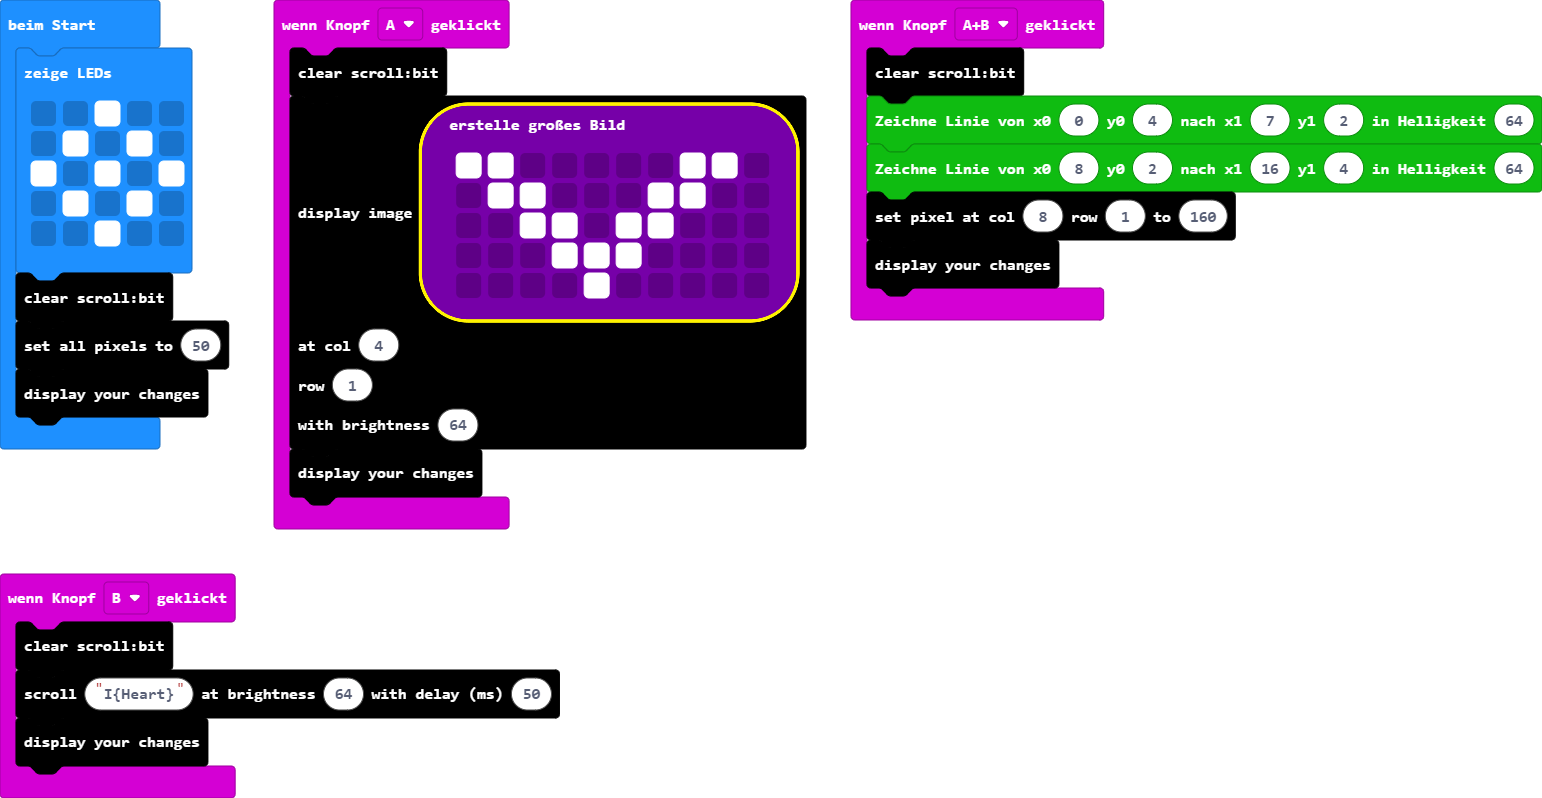
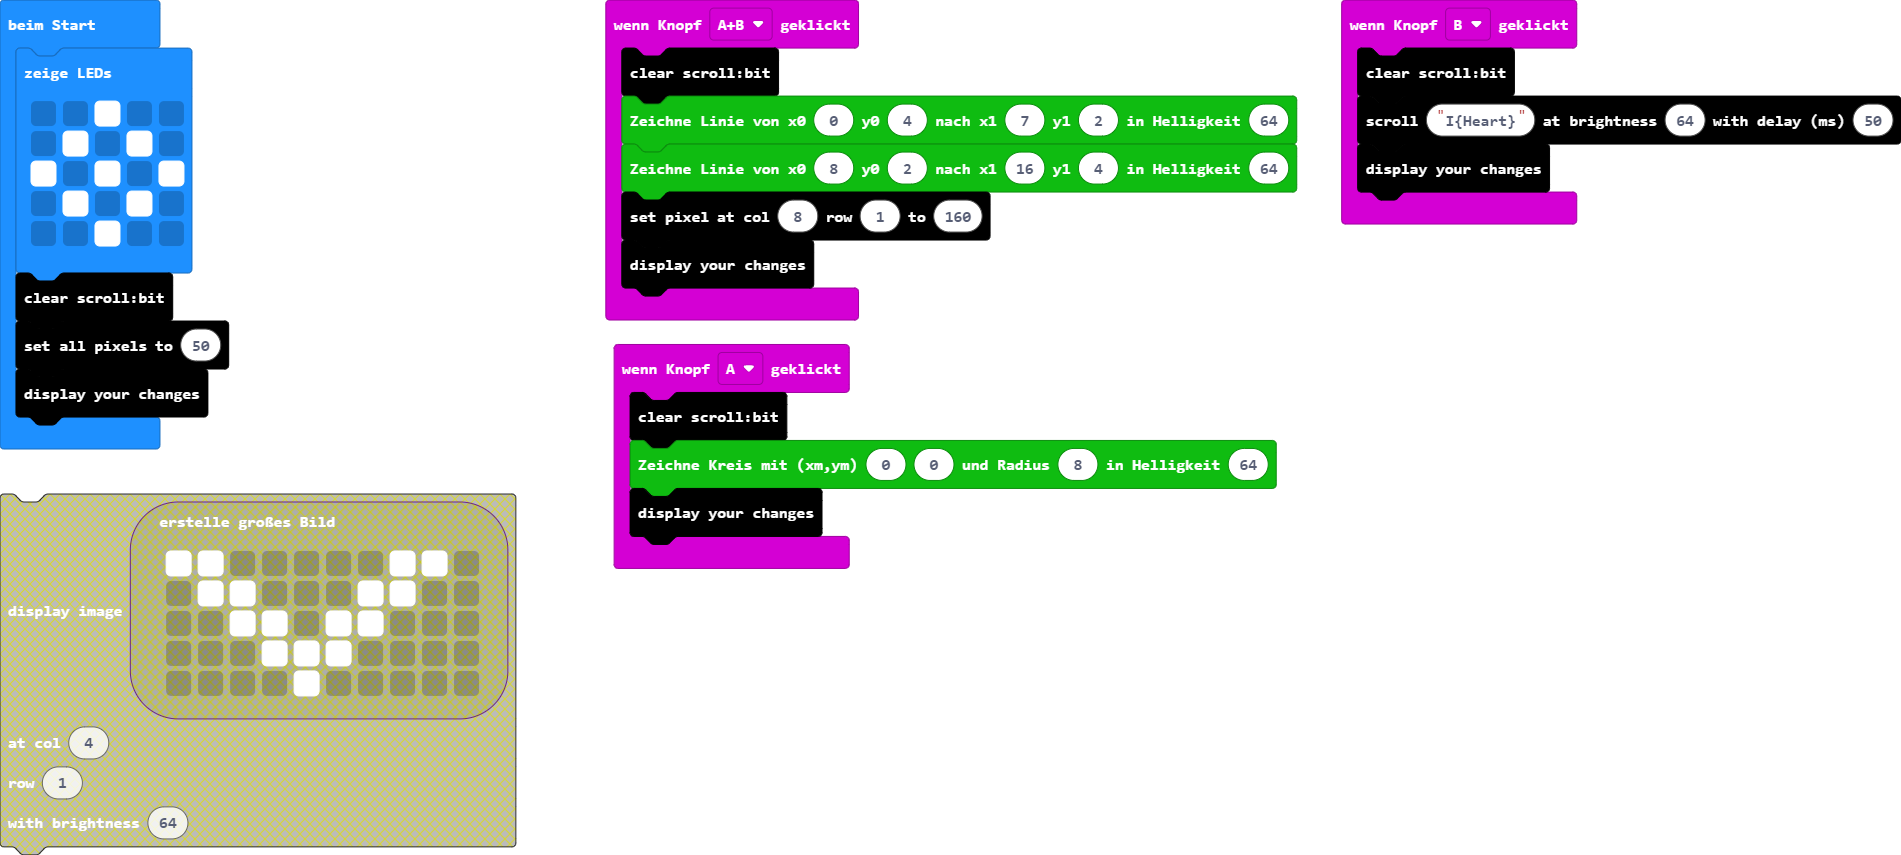
Aktualisiere main.blocks, main.ts, custom.ts

diff --git a/custom.ts b/custom.ts
@@ -7,6 +7,7 @@
 /**
  * Custom blocks
  */
+
 //% weight=100 color=#0fbc11 icon="\uf14b" block="Scroll:Bit_z"
 namespace scrollbit_z {
     /**
@@ -65,6 +66,47 @@ namespace scrollbit_z {
                 err += dx
                 y += sy
             }
+        }
+    }
+
+    //% blockId=Kreis
+    //% block="Zeichne Kreis mit (xm,ym)%xm%ym und Radius%R in Helligkeit%brightness"
+    //% inlineInputMode=inline
+    //% xm.min=0 xm.max=16
+    //% ym.min=0 ym.max=6
+    //% r.min=0 r.max=16
+    //% brightness.min=0 brightness.max=255 brightness.defl=64
+    //% weight=60 blockGap=8
+    export function Kreis(xm: number, ym: number, r: number, brightness:number) {
+        let f = 1 - r;
+        let ddF_x = 0;
+        let ddF_y = -2 * r;
+        let x = 0;
+        let y = r;
+
+        scrollbit.setPixel(xm, ym + r, brightness);
+        scrollbit.setPixel(xm, ym - r, brightness);
+        scrollbit.setPixel(xm + r, ym, brightness);
+        scrollbit.setPixel(xm - r, ym, brightness);
+
+        while (x < y) {
+            if (f >= 0) {
+                y -= 1;
+                ddF_y += 2;
+                f += ddF_y;
+            }
+            x += 1;
+            ddF_x += 2;
+            f += ddF_x + 1;
+
+            scrollbit.setPixel(xm + x, ym + y, brightness);
+            scrollbit.setPixel(xm - x, ym + y, brightness);
+            scrollbit.setPixel(xm + x, ym - y, brightness);
+            scrollbit.setPixel(xm - x, ym - y, brightness);
+            scrollbit.setPixel(xm + y, ym + x, brightness);
+            scrollbit.setPixel(xm - y, ym + x, brightness);
+            scrollbit.setPixel(xm + y, ym - x, brightness);
+            scrollbit.setPixel(xm - y, ym - x, brightness);
         }
     }
 }

diff --git a/main.ts b/main.ts
@@ -1,17 +1,6 @@
 input.onButtonPressed(Button.A, function () {
     scrollbit.clear()
-    scrollbit.setImage(
-    images.createBigImage(`
-        # # . . . . . # # .
-        . # # . . . # # . .
-        . . # # . # # . . .
-        . . . # # # . . . .
-        . . . . # . . . . .
-        `),
-    4,
-    1,
-    64
-    )
+    scrollbit_z.Kreis(0, 0, 8, 64)
     scrollbit.show()
 })
 input.onButtonPressed(Button.AB, function () {
